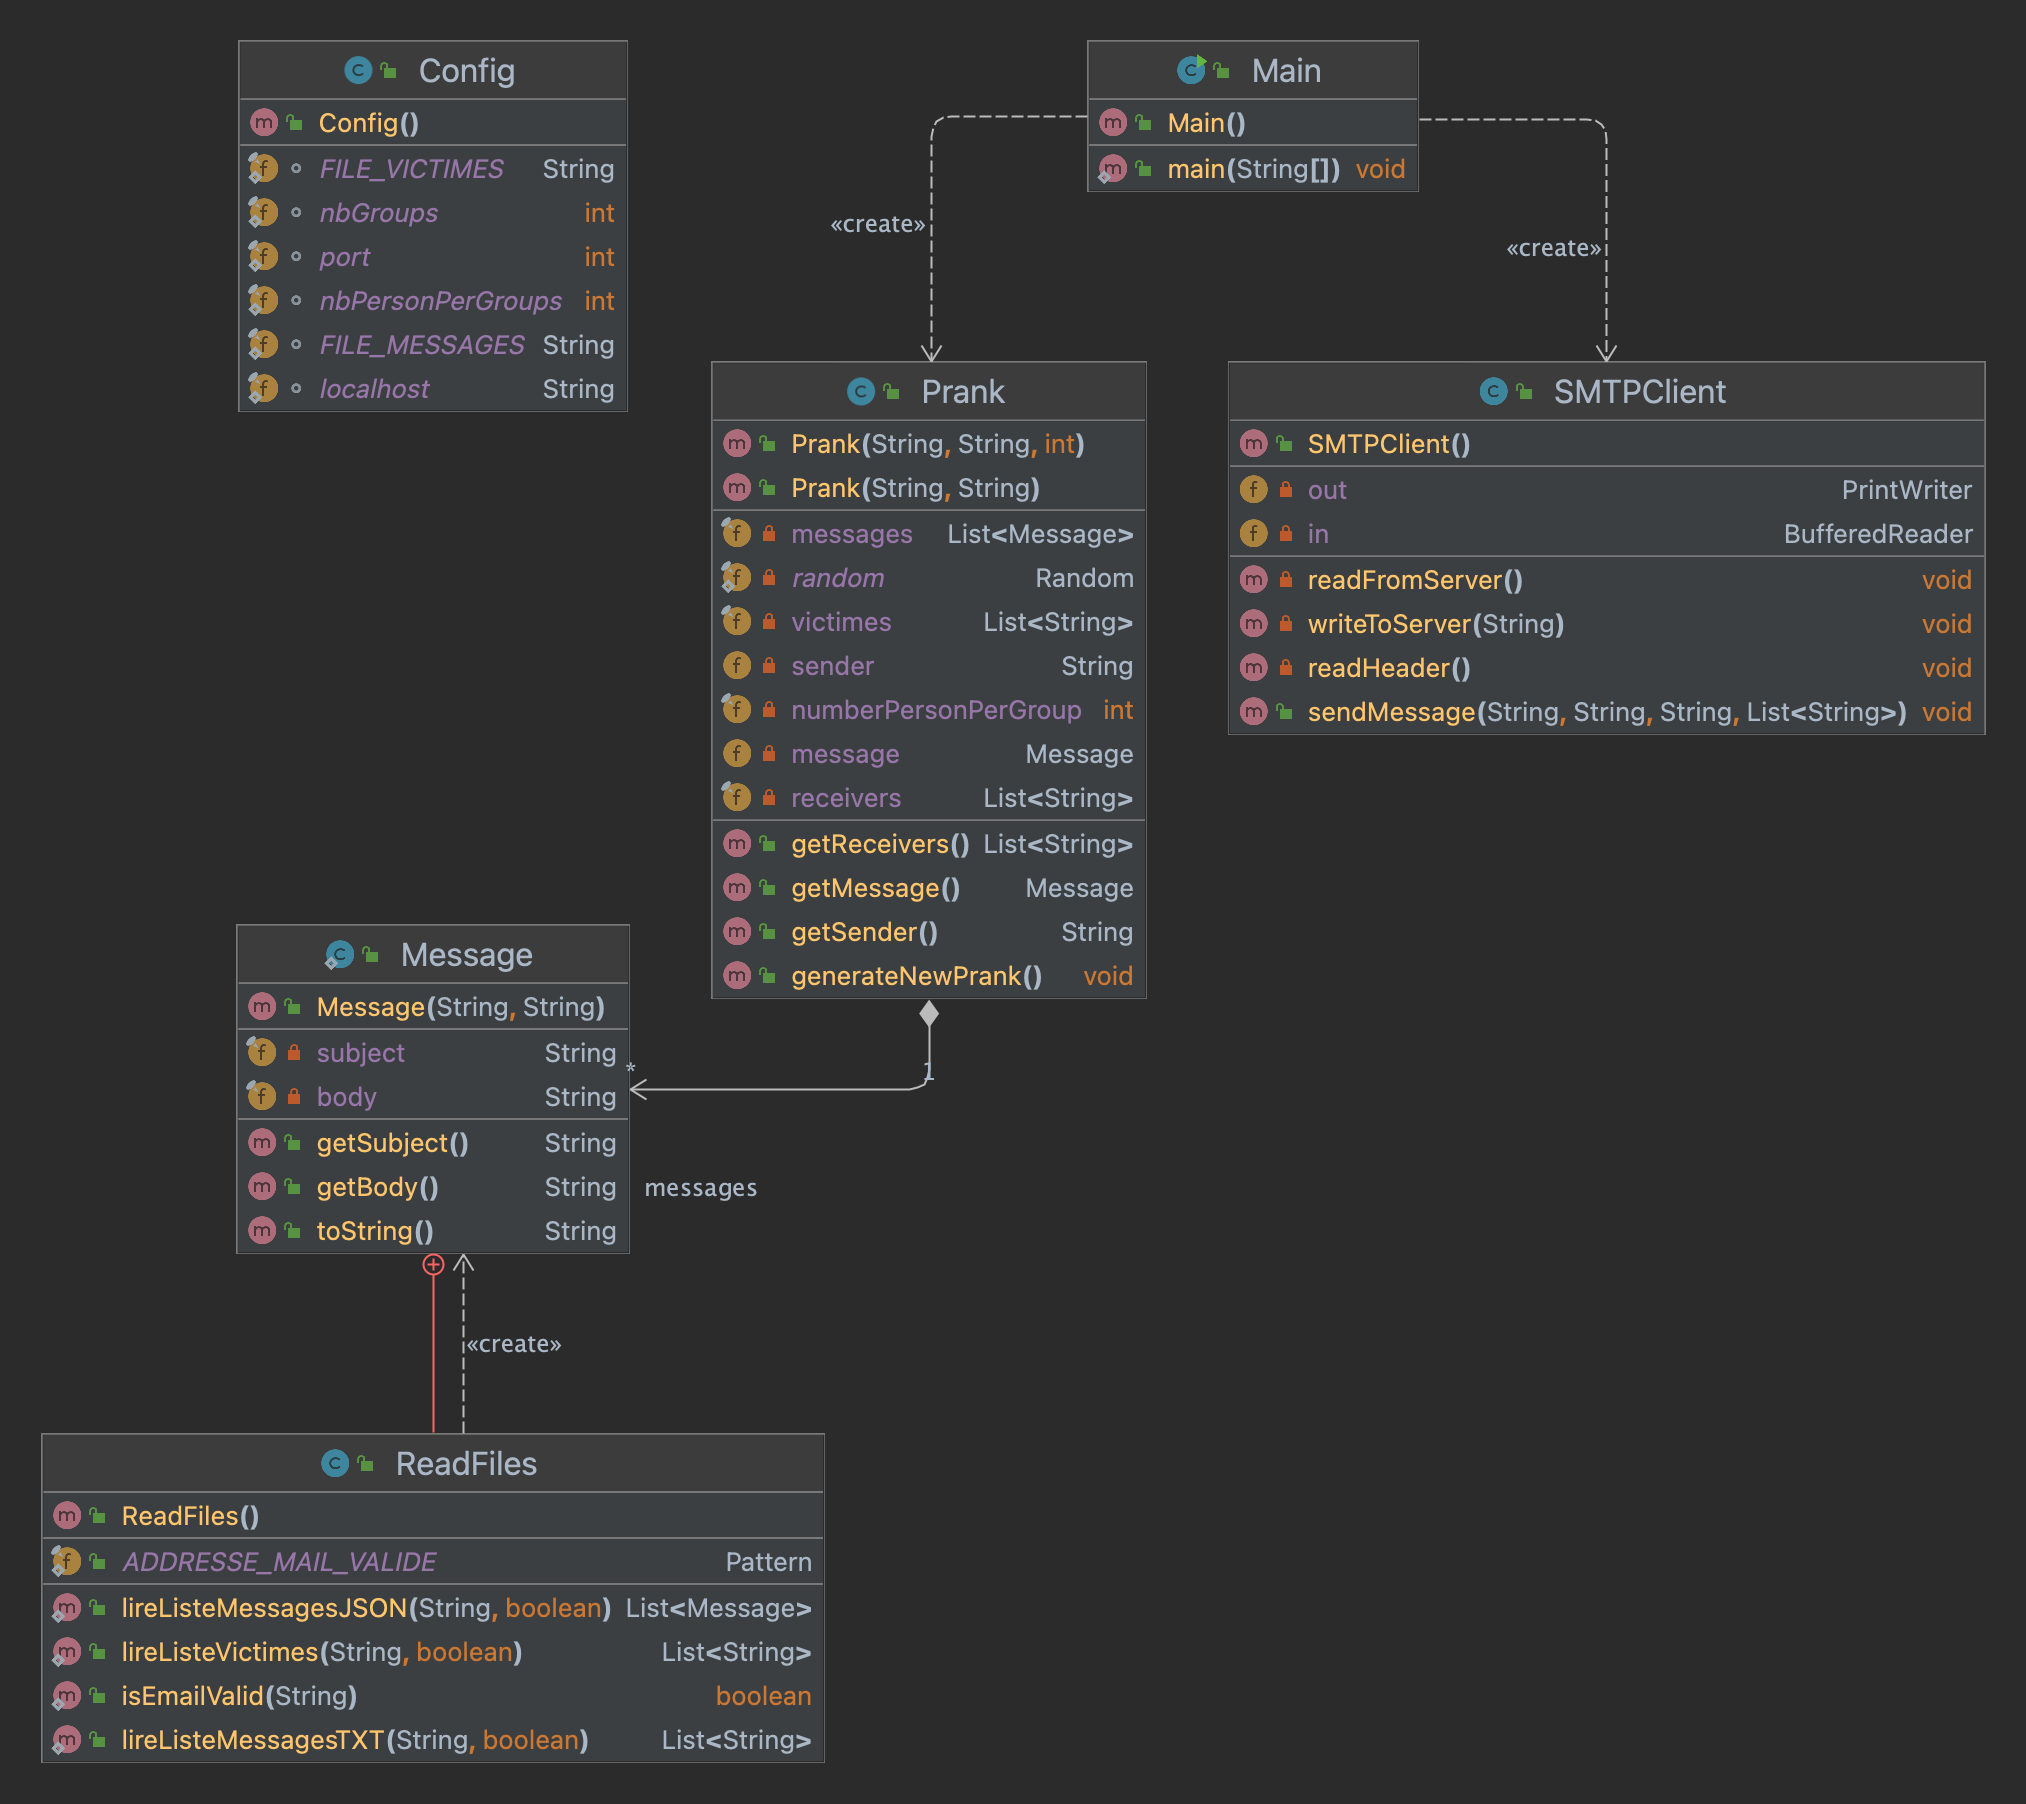
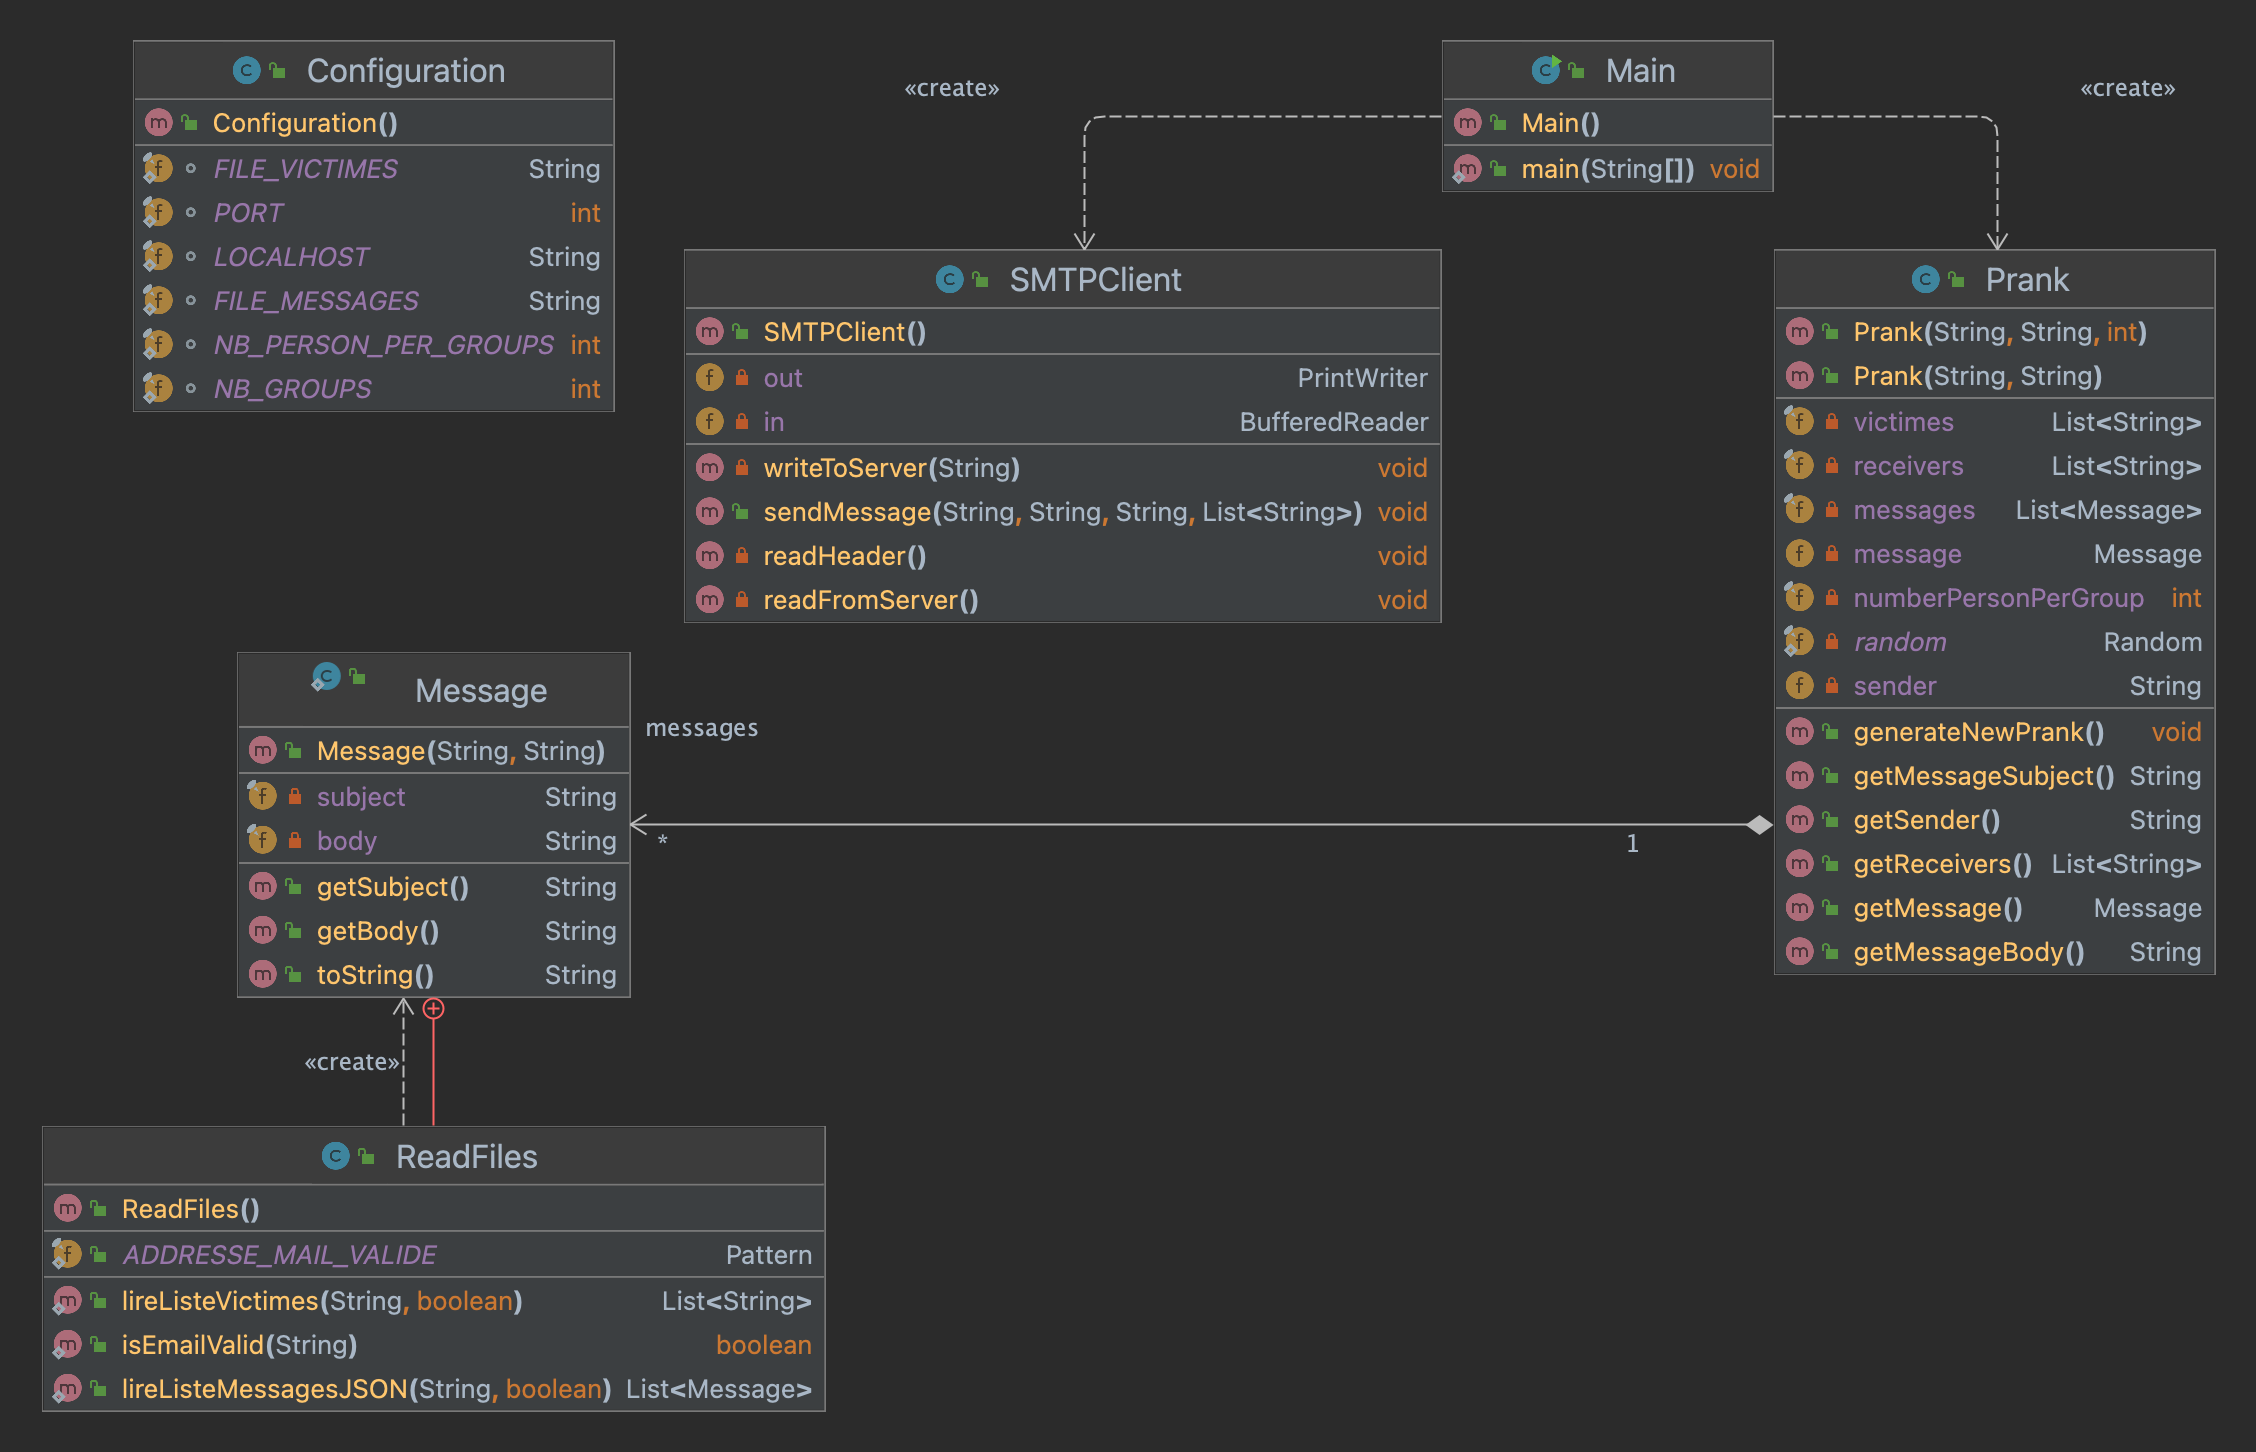
suppression txt file reader

diff --git a/src/main/java/ch/heig/dai_lab_smtp/ReadFiles.java b/src/main/java/ch/heig/dai_lab_smtp/ReadFiles.java
@@ -60,42 +60,6 @@ public class ReadFiles {
     }
 
     /**
-     * Fonction de lecture d'un fichier de messages txt
-     *
-     * @param path chemin jusqu'au fichier.txt
-     * @return une liste de toutes les messages d'un fichier séparés par "---"
-     */
-    public static List<String> lireListeMessagesTXT(String path, boolean shuffle) {
-
-        List<String> messages = new ArrayList<>();
-        StringBuilder messageCourant = new StringBuilder();
-
-        try (var reader = new BufferedReader(new FileReader(path))) {
-
-            String ligne;
-
-            while ((ligne = reader.readLine()) != null) {
-
-                if (ligne.equals("---")) {
-                    messages.add(messageCourant.toString());
-                    messageCourant.setLength(0); // Réinitialiser le StringBuilder
-                } else {
-                    messageCourant.append(ligne).append("\n");
-                }
-            }
-            messages.add(messageCourant.toString()); // Ajouter le dernier message
-        } catch (IOException e) {
-            System.err.println("ERREUR lors de la lecture du fichier de messages (txt) : " + e.getMessage());
-            System.exit(1);
-        }
-
-        if (shuffle)
-            Collections.shuffle(messages);
-
-        return messages;
-    }
-
-    /**
      * Fonction de lecture d'un fichier de messages json
      *
      * @param path chemin jusqu'au fichier.json

diff --git a/src/main/java/ch/heig/dai_lab_smtp/SMTPClient.java b/src/main/java/ch/heig/dai_lab_smtp/SMTPClient.java
@@ -3,7 +3,6 @@ package ch.heig.dai_lab_smtp;
 import java.io.*;
 import java.net.Socket;
 import java.nio.charset.StandardCharsets;
-import java.util.Base64;
 import java.util.List;
 
 import static ch.heig.dai_lab_smtp.Configuration.*;
@@ -36,7 +35,7 @@ public class SMTPClient {
     public void sendMessage(String subject, String message, String sender, List<String> receivers) {
 
         try {
-            Socket socket = new Socket(localhost, port);
+            Socket socket = new Socket(LOCALHOST, PORT);
             in = new BufferedReader(new InputStreamReader(socket.getInputStream(), StandardCharsets.UTF_8));
             out = new PrintWriter(new OutputStreamWriter(socket.getOutputStream(), StandardCharsets.UTF_8), true);
 
@@ -65,10 +64,9 @@ public class SMTPClient {
             writeToServer("From: <" + sender + ">");
 
             writeToServer(""); // obligatoire pour lire le body
-            var split = message.split("\\\\n"); // Permet de traiter les retour à la ligne
-            for (String s : split) {
-                writeToServer(s + "\r\n");
-            }
+
+            writeToServer(message);
+
 
             writeToServer("\r\n.\r\n"); // signifie la fin du body
             writeToServer("QUIT");

diff --git a/src/main/java/ch/heig/dai_lab_smtp/Main.java b/src/main/java/ch/heig/dai_lab_smtp/Main.java
@@ -8,15 +8,15 @@ public class Main {
     public static void main(String[] args) {
 
         // Check the number of groups
-        if (nbGroups < 1) {
-            System.err.println("ERREUR : Nombre de groupes invalide. Doit être suppérieur à 1.");
+        if (NB_GROUPS < 1) {
+            System.err.println("ERREUR : Nombre de groupes invalide. Doit être supérieur à 1.");
             return;
         }
 
         SMTPClient client = new SMTPClient();
-        Prank prank = new Prank(FILE_VICTIMES, FILE_MESSAGES, nbPersonPerGroups);
+        Prank prank = new Prank(FILE_VICTIMES, FILE_MESSAGES, NB_PERSON_PER_GROUPS);
 
-        for (int i = 0; i < nbGroups; i++) {
+        for (int i = 0; i < NB_GROUPS; i++) {
             prank.generateNewPrank();
             client.sendMessage(prank.getMessageSubject(), prank.getMessageBody(), prank.getSender(), prank.getReceivers());
         }

diff --git a/src/main/java/ch/heig/dai_lab_smtp/Configuration.java b/src/main/java/ch/heig/dai_lab_smtp/Configuration.java
@@ -2,9 +2,9 @@ package ch.heig.dai_lab_smtp;
 
 public class Configuration {
     final static String FILE_VICTIMES = "src/main/resources/victims.txt";
-    final static String FILE_MESSAGES = "src/main/resources/messagesJ.json";
-    final static String localhost = "localhost";
-    final static int port = 1025;
-    final static int nbGroups = 2;
-    final static int nbPersonPerGroups = 3;
+    final static String FILE_MESSAGES = "src/main/resources/messages.json";
+    final static String LOCALHOST = "localhost";
+    final static int PORT = 1025;
+    final static int NB_GROUPS = 2;
+    final static int NB_PERSON_PER_GROUPS = 3;
 }

diff --git a/README.md b/README.md
@@ -31,7 +31,7 @@ chacune étant soumise à une validation par un motif spécifique.
 
 Un message est composé d'un sujet et d'un corps de message. 
 
-Les messages peuvent être lus sous le format .txt mais doivent être séparés par "---" ou bien ils peuvent être lus sous le format .json.
+Les messages peuvent sont lus sous le format .json.
 De plus, il faut placer les messages dans le répertoire [resources](src/main/resources).
 
 ### Déterminer la taille d'un groupe et le nombre de groupes
@@ -64,24 +64,35 @@ Le code se décompose en 4 parties :
 ## Exemple d'échange
 Cette partie représente les messages du serveur suite à l'envoi d'un mail par le client.
 
-    (C): Connexion au serveur 
     (S): 220 1e19ce8517f9 ESMTP
     (C): EHLO localhost
     (S): 250-PIPELINING
     (S): 250-8BITMIME
     (S): 250 SMTPUTF8
-    (C): MAIL FROM <adresse expéditeur>
+    (C): MAIL FROM: <calvin.graf@heig-vd.ch>
     (S): 250 Accepted
-    (C): RCPT TO <adresse d'un destinataire> 
+    (C): RCPT TO: <simon.guggisberg@heig-vd.ch>
     (S): 250 Accepted
-    (C): RCPT TO <adresse d'un destinataire> 
+    (C): RCPT TO: <valentin.bonzon@heig-vd.ch>
     (S): 250 Accepted
     (C): DATA
     (S): 354 End data with <CR><LF>.<CR><LF>
-    (C): sujet
-    (C): ligne vide
-    (C): body
-    (C): "\r\n.\r\n"
+    (C): Content-Type: text/plain; charset=UTF-8
+    (C): Subject: Pour notre amitié sans faille
+    (C): From: <calvin.graf@heig-vd.ch>
+    (C):
+    (C): Salut,
+
+    Je voulais juste prendre un moment pour te dire à quel point notre amitié compte pour moi. Tu es comme le code source de ma vie, apportant de la joie, de la stabilité et une tonne de rires. Nos moments partagés sont comme des fonctions bien définies : ils rendent ma vie beaucoup plus facile et plus amusante.
+
+    Chaque fois que je pense à notre amitié, je me rends compte à quel point tu es une constante précieuse dans ma vie. Tu es le point virgule à mes phrases, la virgule à mes listes de moments heureux et le point d'exclamation à mes jours ordinaires.
+    
+    Merci d'être toujours là pour moi, même dans les moments les plus turbulents. J'apprécie chaque ligne de code que nous avons écrite ensemble dans le grand livre de notre amitié.
+    
+    À toutes nos aventures passées et à venir !
+    (C):
+    .
+    
     (C): QUIT
 
 
